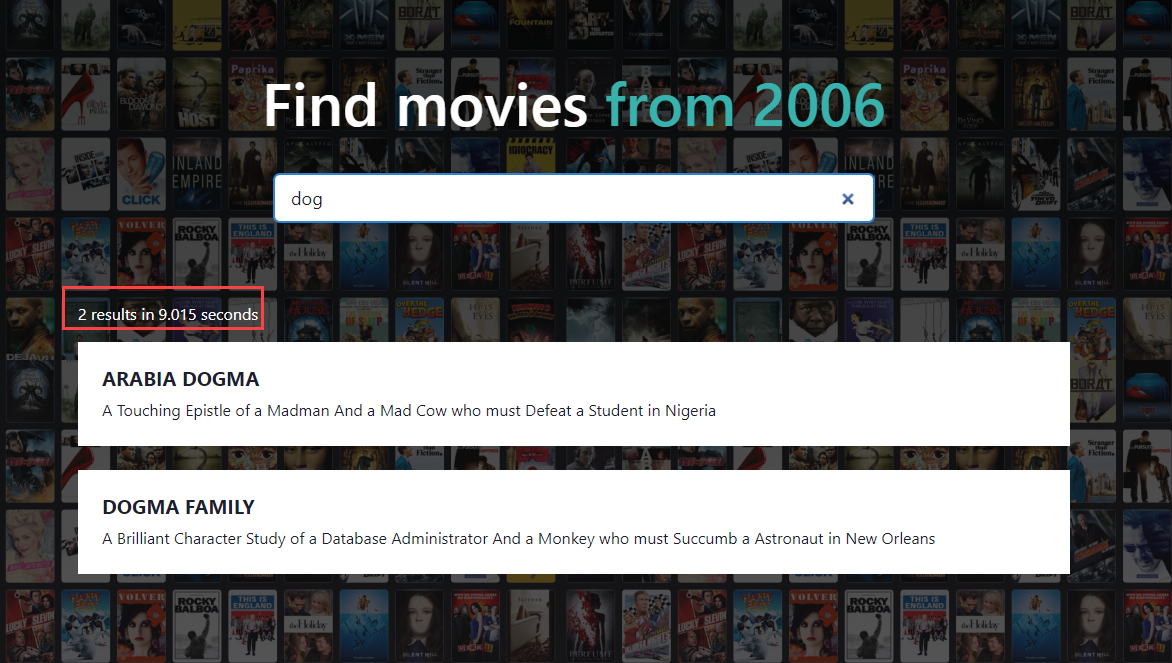
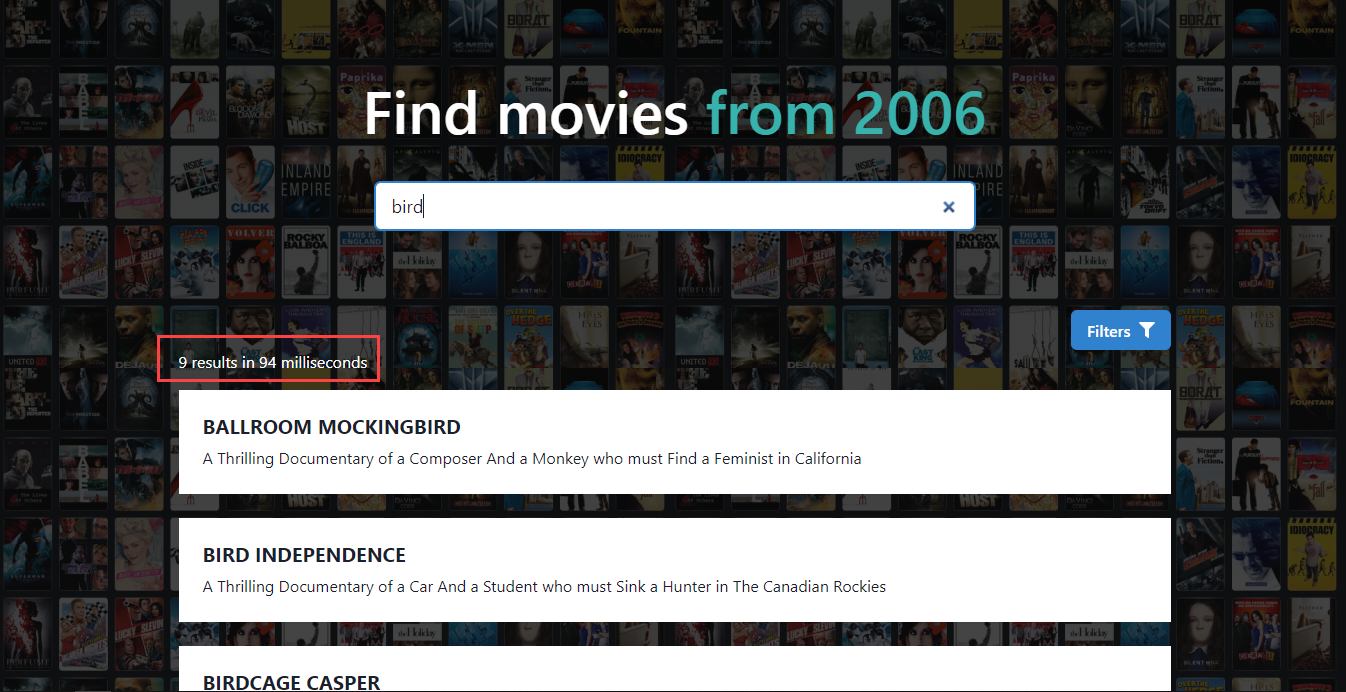
chore: add code blocks to article

diff --git a/content/articles/how-to-build-real-time-search-with-react-and-laravel/index.md b/content/articles/how-to-build-real-time-search-with-react-and-laravel/index.md
@@ -87,7 +87,7 @@ cp .env.example .env
 6. Create the database in the MySQL shell
 
 ```
-CREATE DATABASE sakila;
+CREATE DATABASE movies_search_app;
 ```
 
 Ensure that the database configuration in the .env file corresponds to your local database settings.
@@ -95,7 +95,7 @@ Ensure that the database configuration in the .env file corresponds to your loca
 7. Run the migrations.
 
 ```
-php artisan migrate
+php artisan migrate --seed
 ```
 
 The migrations create a film table that contains fictional movies. The original source of the data is the sakila MySQL sample database.
@@ -114,33 +114,240 @@ The frontend is a basic page component with an input box. Whenever you type a le
 
 ![Frontend Architecture](/engineering-education/how-to-build-real-time-search-with-react-and-laravel/frontend-architecture.png)
 
+### Frontend Code Walkthrough
+
+The movie search page starts with an empty movies state, a query state for typed text and the input box component that feeds the query state.
+
+```ts
+function Index() {
+  const [query, setQuery] = useState("");
+
+  return (
+    <Input
+      size="lg"
+      placeholder="Search by title, e.g. Bird"
+      mb="1rem"
+      name="query"
+      value={query}
+      onChange={({ target }) => setQuery(target.value)}
+      type="search"
+      width={{ base: "90vw", md: "600px" }}
+      bg="white"
+    />
+  );
+}
+```
+
+To keep the codebase organized, a `searchByTitle` function is defined in `api/movies.ts`.
+
+```ts
+import http from ".";
+
+export const searchByTitle = async ({ title, fetchCached }) => {
+  const searchParams = new URLSearchParams({
+    title,
+    fetchCached: String(Number(fetchCached)),
+  });
+
+  const { data } = await http.get(`/movies?${searchParams}`);
+  return data;
+};
+```
+
+The function calls the `/movies` end point with the given title and an option to fetch cached items as URL search parameters. It uses the global http configuration defined in `api/index.ts`. The http object is an axios instance that contains the base URL and the request timeout.
+
+```ts
+import axios from "axios";
+
+const http = axios.create({
+  baseURL: process.env.NEXT_PUBLIC_API_URL,
+  timeout: 90000,
+});
+
+export default http;
+```
+
+A `useEffect` hook is then added which fires a callback when the page mounts and when the query state is updated by the input box.
+
+```ts
+import { searchByTitle } from "../api/movies";
+
+function Index() {
+  const [query, setQuery] = useState("");
+  const [movies, setMovies] = useState([]);
+  ...
+
+  useEffect(() => {
+    if (query) {
+      setLoading(true);
+      setMovies([]);
+
+      searchByTitle({ title: query, fetchCached })
+        .then(({ data }) => {
+          setLoading(false);
+          setMovies(data.movies);
+          setQueryTime(data.duration_in_milliseconds);
+        })
+        .catch((error) => {
+          handleError(error);
+          setLoading(false);
+        });
+    }
+  }, [query]);
+
+  return (
+  ...
+}
+```
+
+The server response contains a movies array and the query duration in milliseconds. Below is the base state of the server response.
+
+```json
+{
+  "movies": [],
+  "duration_in_milliseconds": 0
+}
+```
+
 ### Backend Architecture
 
 The backend follows a simple flow of running search queries on the database. Whenever the frontend sends a request to the backend, it processes it and sends it to the database.
 
 ![Sending database responses for every request](/engineering-education/how-to-build-real-time-search-with-react-and-laravel/no-cache-backend-flow.png)
 
+### Backend Code Walkthrough
+
+The two most important files in the backend are
+
+1. app/Http/Controllers/MoviesController.php that contains the querying logic, and
+2. routes/api.php that contains the API routes
+
+The API endpoint for fetching movies calls the index method in the movies controller
+
+```php
+Route::get('/movies', [MoviesController::class, 'index']);
+```
+
+The index method in MoviesController.php validates the request data and resolves the request to either fetch from the database or from the cache.
+
+```php
+class MoviesController extends Controller
+{
+    public function index(Request $request)
+    {
+        $validatedData = $request->validate([
+            'title' => ['required'],
+            'fetchCached' => ['boolean'],
+        ]);
+
+        $fetchCached = $validatedData['fetchCached'];
+        $title = $validatedData['title'];
+
+        if ($fetchCached) {
+            return $this->fetchFromCache($title);
+        } else {
+            return $this->fetchFromDB($title);
+        }
+    }
+    ...
+}
+```
+
+When you make a request without specifying the `fetchCached` query parameter or setting its value to "0", the `index` method resolves to the `fetchFromDB` method. This method uses the eloquent `Film` model to perform a query with the sql "LIKE" operator under the hood. It also records the start and end time of this query and returns the milliseconds differnce in the response object.
+
+```php
+    public function fetchFromDB($title)
+    {
+        $start_time = now();
+        $movies = Film::where('title', 'like', "%{$title}%")->get();
+        $finish_time = now();
+
+        return response()->json([
+            'data' => [
+                'movies' => $movies,
+                'duration_in_milliseconds' => $finish_time->diffInMilliseconds($start_time)
+            ],
+        ]);
+    }
+
+```
+
 ### Testing the Application
 
-With both the frontend and backend servers running, open the frontend http://localhost:3000 in a browser. Then, make a query for `dog` in the search box.
+With both the frontend and backend servers running, open the frontend http://localhost:3000 in a browser. You should be presented with the view below.
+
+![Base Frontend View](/engineering-education/how-to-build-real-time-search-with-react-and-laravel/base-frontend-view.png)
+
+Make a query with `bird` as input in the search box. It should returns 9 results in an average time of 60 milliseconds.
 
 ![Initial Search Results](/engineering-education/how-to-build-real-time-search-with-react-and-laravel/initial-query-results.png)
 
-It should take a few seconds to complete the search. If you decide to paste the `dog` query, the search should take an average of 3 seconds to complete.
-
-![Pasted Search Results](/engineering-education/how-to-build-real-time-search-with-react-and-laravel/pasted-query-results.png)
+If you analyze the current situation, you'll notice that each character inputed fires the `searchByTitle` function which makes the HTTP call. If it takes an average of 60 ms to make one HTTP request, it means will take roughly 240 ms for four HTTP requests. These requests correspond to the number of characters in the word `bird`.
 
 ### Improving Query Time with Redis
 
-The average query time of the movie search app is 3 seconds. Imagine typing 12 characters into the search box. It will take you close to a minute before you see results. You can limit requests made to the DB if you cache the queries in Redis. As said earlier, Redis will serve as a cache in this application.
+If you introduce Redis to the backend, the backend architecture transforms to the representation below.
 
 ![Redis Architecture](/engineering-education/how-to-build-real-time-search-with-react-and-laravel/redis-cache-backend-flow.png)
 
+The `fetchFromCache` method in `MovieController.php` contains the code that interacts with Redis. First, the start time is saved to a variable and the function attempts to get the movies which correspond to the search title from Redis. If cached data exits, the function records the request end time and returns a serialized object of the cached movies alongside the duration in milliseconds. If there's no cached data for the corresponding request, the `fetchFromCache` function fetches the movies directly from the database, records the finish time and sets the search title and response as key value pairs in Redis.
+
+```php
+    public function fetchFromCache($title)
+    {
+        $start_time = now();
+        $cached_movies = Redis::get($title);
+
+        if ($cached_movies) {
+            $finish_time = now();
+
+            return response()->json([
+                'data' => [
+                    'movies' => json_decode($cached_movies),
+                    'duration_in_milliseconds' => $finish_time->diffInMilliseconds($start_time),
+                ]
+            ]);
+        } else {
+            $movies = Film::where('title', 'like', "%{$title}%")->get();
+            $finish_time = now();
+            Redis::set($title, $movies);
+
+            return response()->json([
+                'data' => [
+                    'movies' => $movies,
+                    'duration_in_milliseconds' => $finish_time->diffInMilliseconds($start_time)
+                ],
+            ]);
+        }
+    }
+```
+
+### Testing the Application with Cache Enabled
+
+To test the app with cached enabled, turn on the fetch cached filter in the filters dropdown.
+
+![Enabling redis cache filter on the frontend](/engineering-education/how-to-build-real-time-search-with-react-and-laravel/enabling-cache-switch-filter-on-frontend.png)
+
+Now, make a query with bird as input. You should still get a query time close to 60 seconds, because the backend still fetches data from the database while caching the result.
+
+![Initial Query with Cache Enabled](/engineering-education/how-to-build-real-time-search-with-react-and-laravel/initial-query-with-cache-enabled.png)
+
+If you repeat the bird query, you should get query time as low as 10 milliseconds. This is an 80% average decrease in the query time.
+
+![Subsequent query with cached enabled](/engineering-education/how-to-build-real-time-search-with-react-and-laravel/subsequent-query-with-cache-enabled.png)
+
+### Recommendations in Building Real-time Systems
+
+1. Create a user-friendly search bar
+2. Add search filters for narrowing relevant results
+3. Use a Cache to reduce query time
+
 ### Conclusion
 
-Modern systems that rely on search have to produce results in milliseconds. You can build such a system using a Single Page Application, AJAX requests and a cache such as Redis. In this article, you learned about the components of a real-time search system. You also learned about the architecture of the system. Finally, you learned how to optimize the queries using Redis.
+Modern systems that rely on search have to produce results in milliseconds. You can build such a system using a Single Page Application, AJAX requests and a cache such as Redis. In this article, you learned about the components and architecture of a real-time search system. You learned how to optimize the queries using Redis. Finally, you learned some recommendations when building such systems.
 
 ### References and Attributions
 
 1. [Hero image by Markus Winkler](https://unsplash.com/@markuswinkler)
 2. [Caching with Redis](https://redis.com/blog/query-caching-redis/)
+3. [Best practices for site search](https://www.algolia.com/blog/product/learn-about-site-search-best-practices/)
